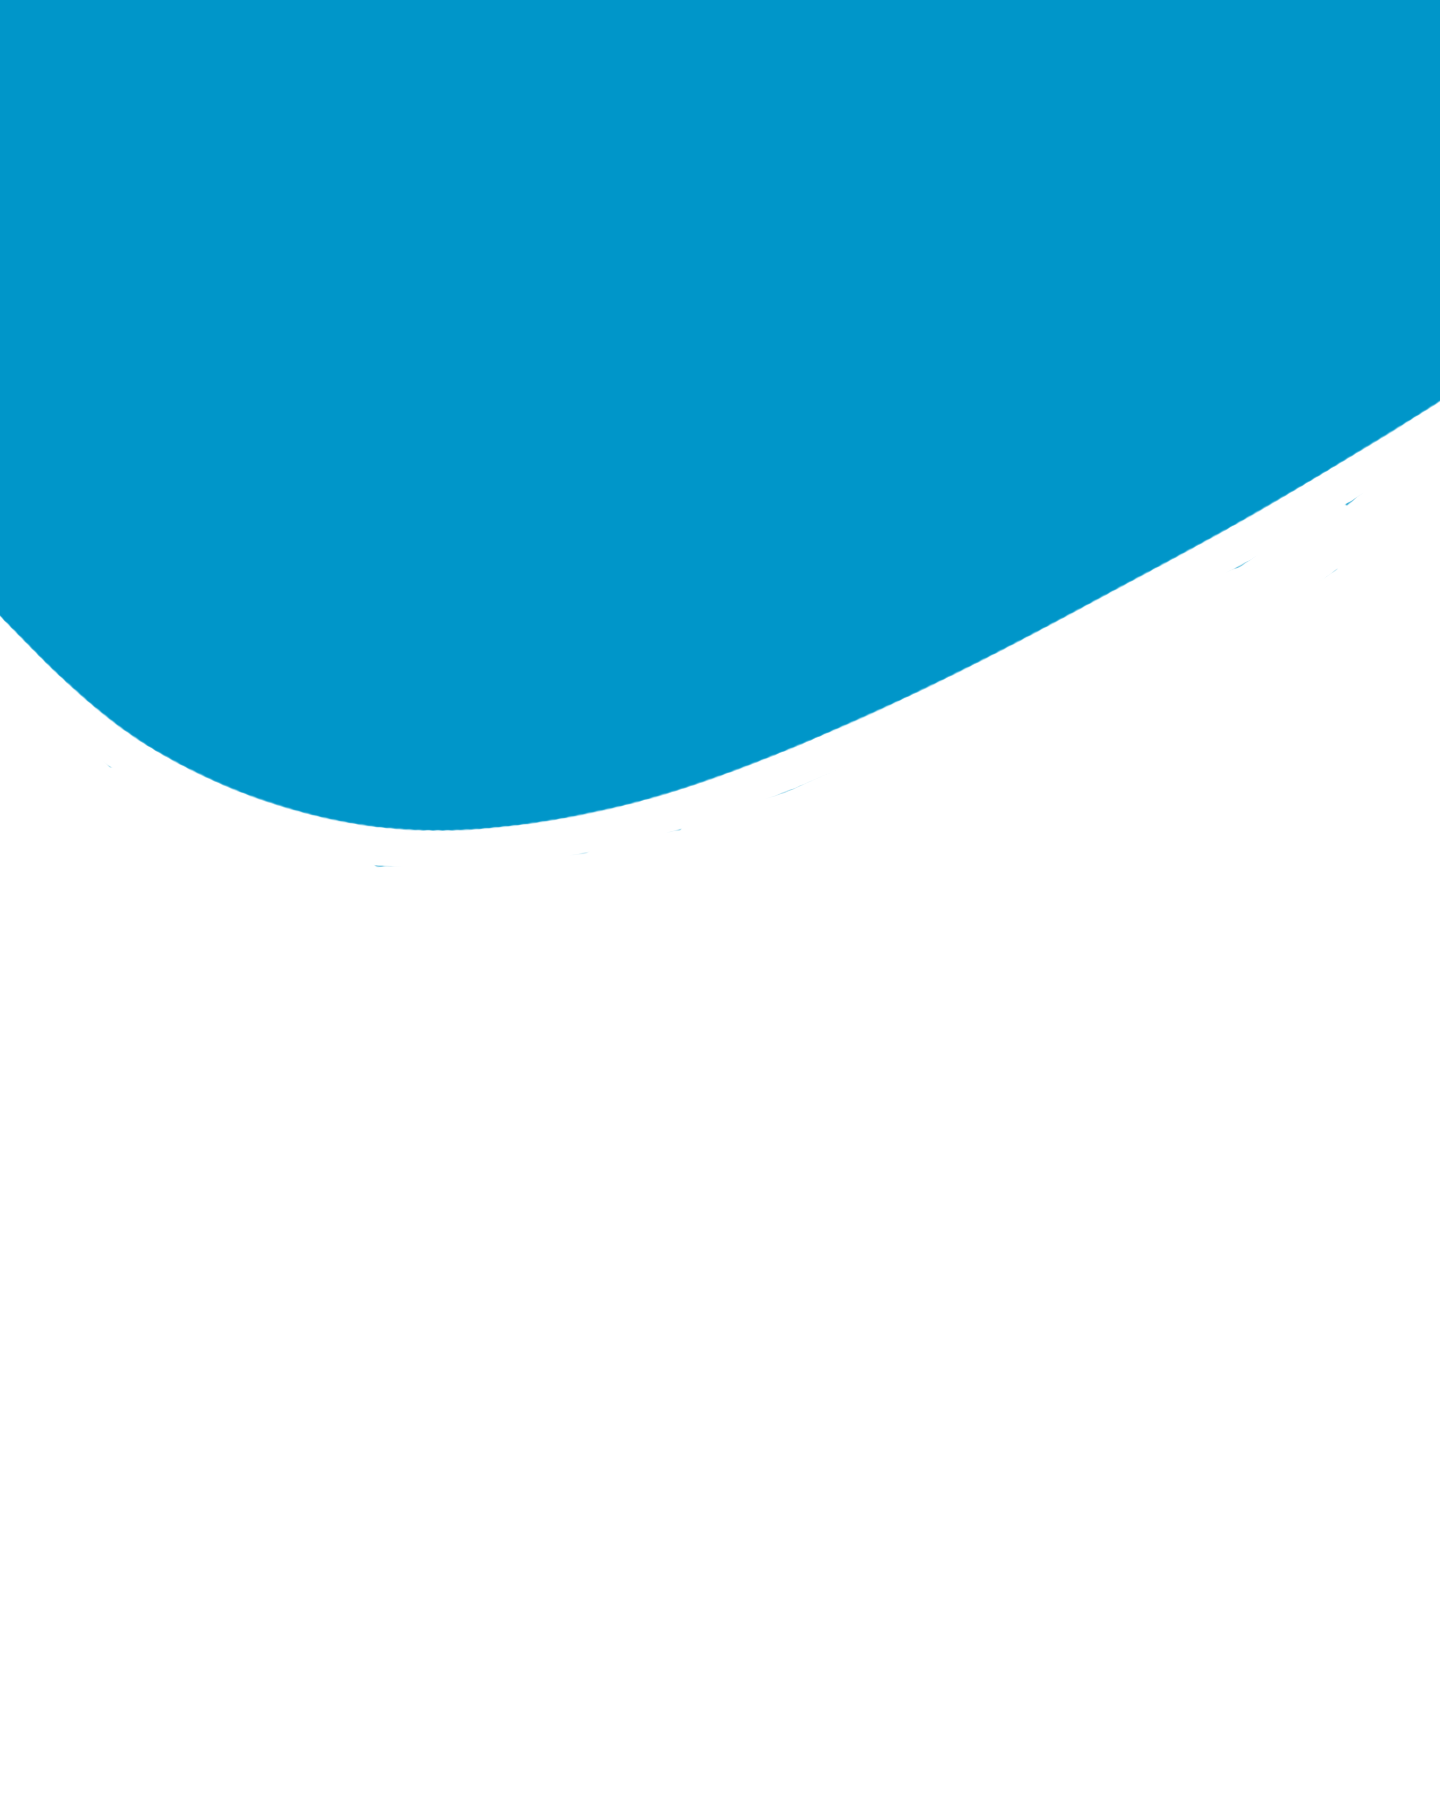
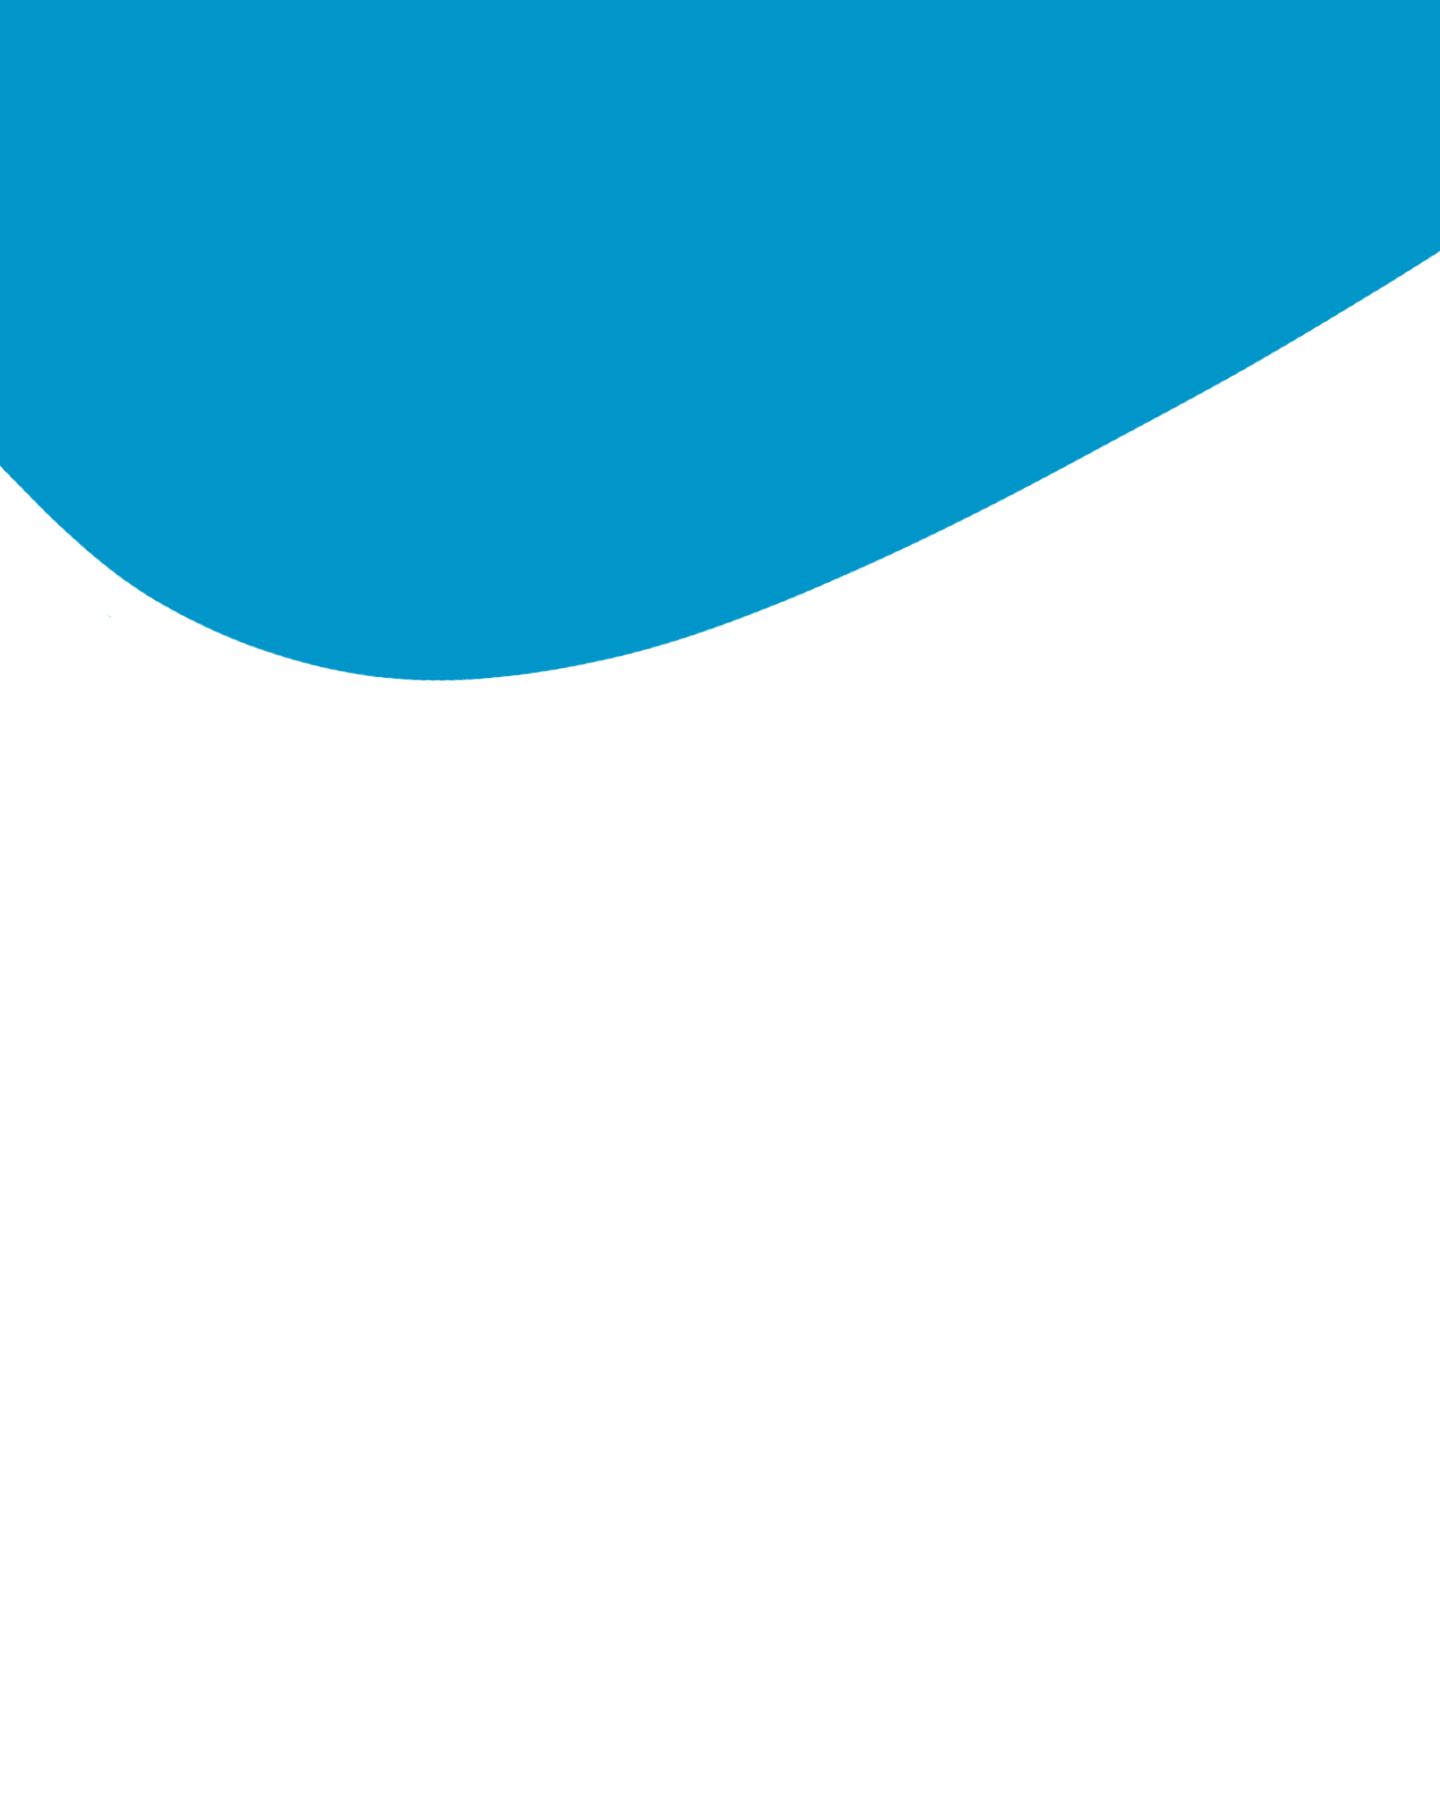
adicionada imagem de fundo do perfil. ajustado perfil.html, e adicionado estrutura basica ao perfil.css

Changed region(s): [[0.0, 0.1244, 1.0, 0.4667]]

diff --git a/pages/perfil.html b/pages/perfil.html
@@ -4,6 +4,7 @@
     <meta charset="UTF-8">
     <meta name="viewport" content="width=device-width, initial-scale=1.0">
     <link rel="stylesheet" href="../styles/header.css">
+    <link rel="stylesheet" href="../styles/pages/perfil.css">
     <title>Perfil</title>
 </head>
 <body>
@@ -28,7 +29,14 @@
         </nav>
     </header>
     <div class="conteudo">
-        <section class="section-top"></section>
+        <section class="section-top">
+            <div class="textos">
+                <h1>Nome: <span>Nome</span></h1>
+                <h1>Conta criada desde 2024</h1>
+                <h1>Pontos:<span>500</span></h1>
+            </div>
+            
+        </section>
         <section class="section-bottom"></section>
     </div>
     </div>

diff --git a/styles/pages/perfil.css b/styles/pages/perfil.css
@@ -1,0 +1,20 @@
+.container{
+    height: 100vh;
+    background-position-y: 10%;
+    background-size: 100%;
+    background-repeat: no-repeat;
+    background-image: url(../../assets/images/profile_image.png);
+}
+.conteudo{
+    height: 100vh;
+}
+.section-top{
+    height: 65vh;   
+}
+.textos{
+    color: white; 
+}
+.textos h1{
+    letter-spacing: 1px;
+    padding-bottom: 10px;
+}
